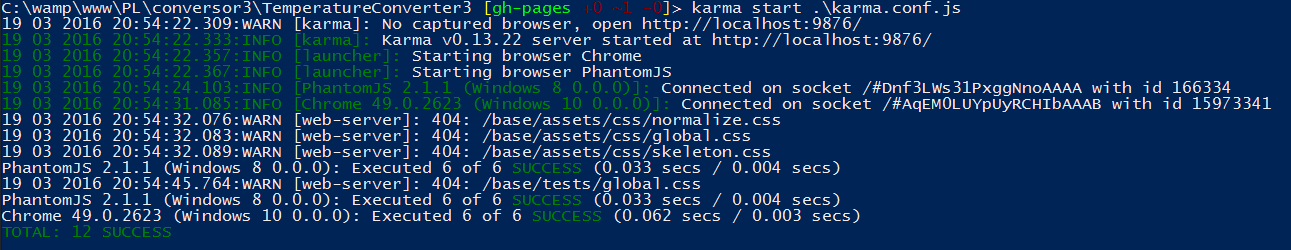
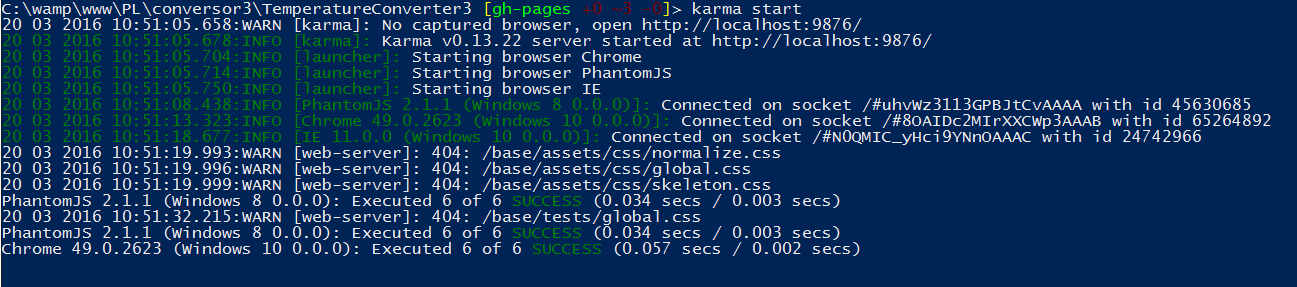
Funcionando Karma con Chrome, IE y PhantomJS, gulpfile funcionando, probando travis

Changed region(s): [[0.0, 0.0, 0.9915, 0.952]]

diff --git a/karma.conf.js b/karma.conf.js
@@ -43,7 +43,6 @@ module.exports = function(config) {
     // preprocess matching files before serving them to the browser
     // available preprocessors: https://npmjs.org/browse/keyword/karma-preprocessor
     preprocessors: {
-      '*.html': 'html2js' 
     },
 
     // test results reporter to use
@@ -71,7 +70,7 @@ module.exports = function(config) {
 
     // start these browsers
     // available browser launchers: https://npmjs.org/browse/keyword/karma-launcher
-    browsers: ['Chrome', 'PhantomJS'],
+    browsers: ['Chrome', 'PhantomJS', 'IE'],
 
 
     // Continuous Integration mode

diff --git a/tests/tests.js b/tests/tests.js
@@ -68,3 +68,4 @@ describe("Pruebas Sinon", function() {
     });
   });
 });
+*/
